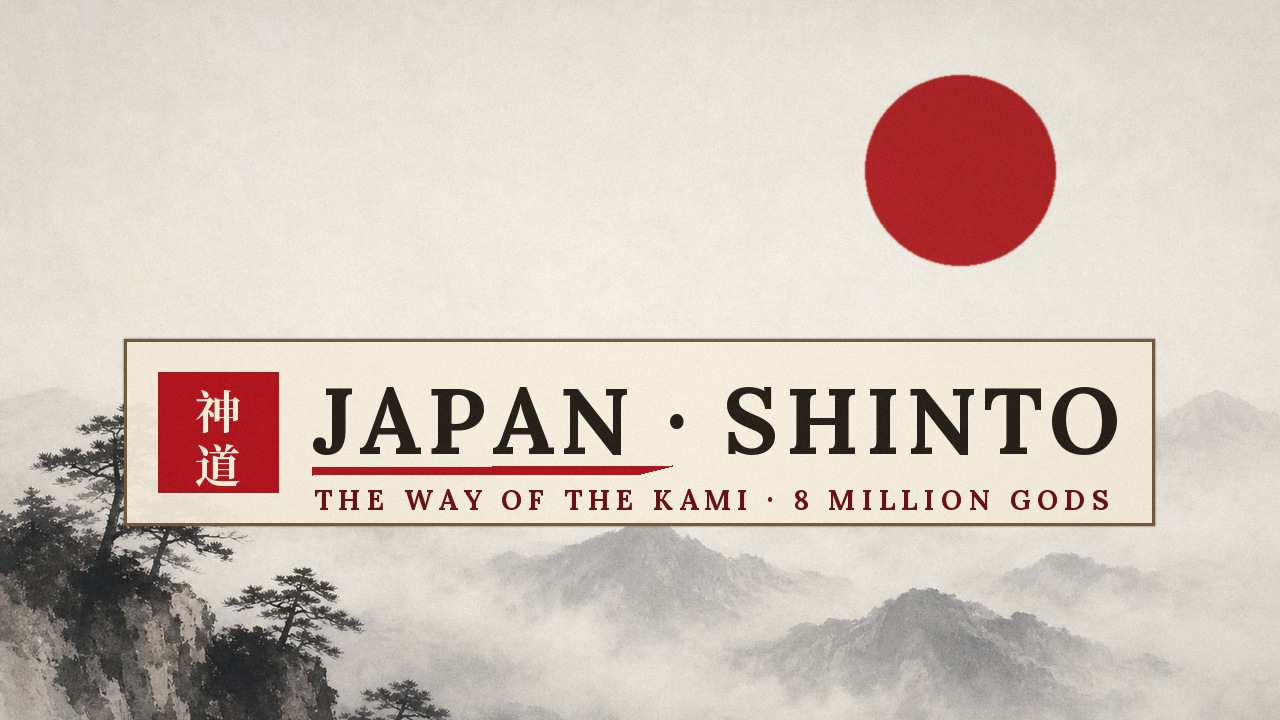
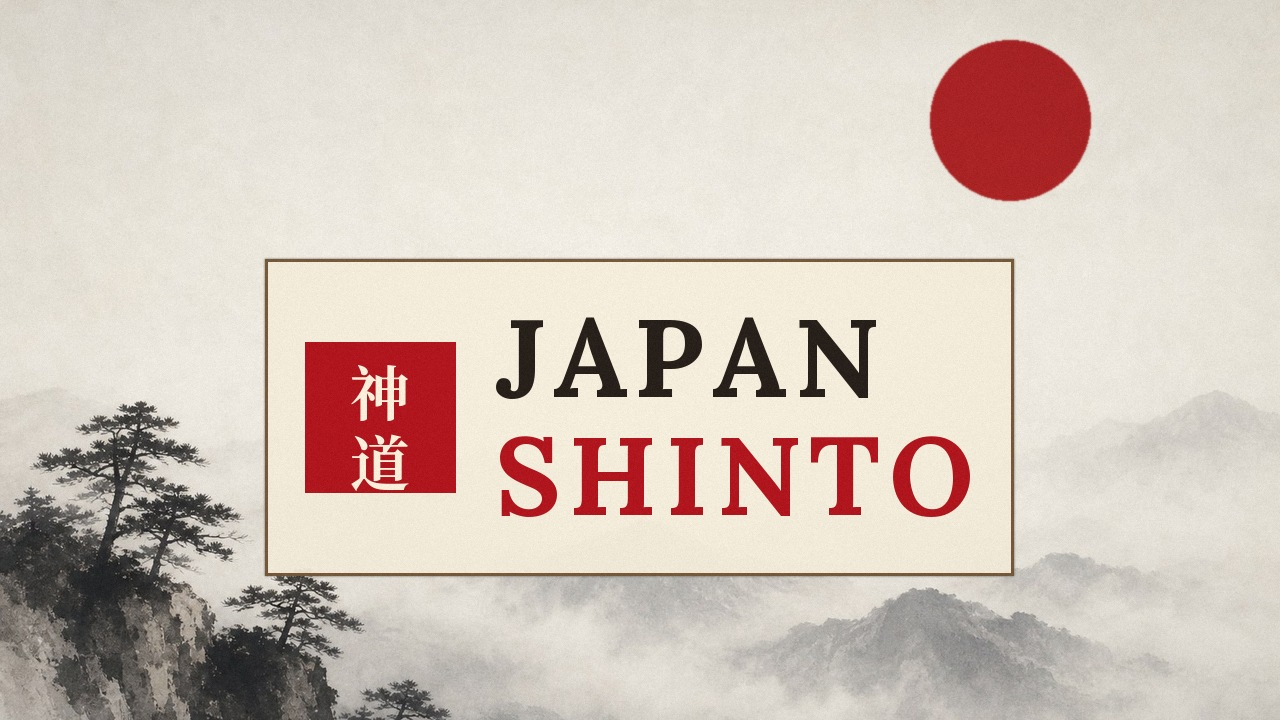
Ảnh bìa video: tiêu đề hai dòng (nước / chủ đề), bỏ dòng phụ
Claude-Session: https://claude.ai/code/session_011CHVvY2RSwUp2YFgPmmMwF

Changed region(s): [[0.0938, 0.4278, 0.9062, 0.825], [0.2188, 0.0306, 0.875, 0.3667], [0.7812, 0.7639, 0.8125, 0.7944]]

diff --git a/assets/channel/make_thumb.py b/assets/channel/make_thumb.py
@@ -24,24 +24,30 @@ fs = ImageFont.truetype(f'{A.F}/NotoSerifSC700.ttf', 64 if len(A.seal) == 1 else
 def wsp(t, f, sp): return sum(d.textlength(c, font=f) for c in t) + sp * (len(t) - 1)
 def dsp(x, y, t, f, sp, fill):
     for c in t: d.text((x, y), c, font=f, fill=fill); x += d.textlength(c, font=f) + sp
-seal = 120; pad = 34; gap = 34
-for size in range(92, 40, -2):   # tự co chữ cho dải giấy vừa khung (chừa 50 px mỗi bên)
+seal = 150; pad = 40; gap = 40
+lines = A.title.split('|'); sub = A.sub.strip()
+for size in range(110, 40, -2):   # tự co chữ cho dải giấy vừa khung (chừa 50 px mỗi bên)
     ft = ImageFont.truetype(f'{A.F}/{A.font}', size)
-    if pad + seal + gap + max(wsp(A.title, ft, 6), wsp(A.sub, fsub, 6)) + pad <= W - 100: break
-tw = max(wsp(A.title, ft, 6), wsp(A.sub, fsub, 6)); sw = pad + seal + gap + tw + pad; sh = 186
-x0 = int((W - sw) / 2); y0 = int(H * 0.60 - sh / 2); x1, y1 = x0 + int(sw), y0 + sh
+    tw = max([wsp(l, ft, 8) for l in lines] + ([wsp(sub, fsub, 6)] if sub else []))
+    if pad + seal + gap + tw + pad <= W - 100: break
+lh = int(size * 1.08); th = lh * len(lines) + (50 if sub else 0)
+sh = max(seal + 2 * pad, th + 2 * pad); sw = pad + seal + gap + tw + pad
+x0 = int((W - sw) / 2); y0 = int(H * 0.58 - sh / 2); x1, y1 = x0 + int(sw), y0 + sh
 strip = Image.new('RGBA', (W, H), (0, 0, 0, 0)); ImageDraw.Draw(strip).rectangle((x0, y0, x1, y1), fill=(246, 238, 220, 242))
 img = Image.alpha_composite(img, strip.filter(ImageFilter.GaussianBlur(1))); d = ImageDraw.Draw(img)
 d.rectangle((x0, y0, x1, y1), outline=(120, 90, 60, 255), width=3)
 sx, sy = x0 + pad, y0 + (sh - seal) // 2; d.rectangle((sx, sy, sx + seal, sy + seal), fill=(178, 22, 30, 255))
+fs = ImageFont.truetype(f'{A.F}/NotoSerifSC700.ttf', 84 if len(A.seal) == 1 else 60)
 if len(A.seal) == 1:
-    w = d.textlength(A.seal, font=fs); d.text((sx + (seal - w) / 2, sy + 18), A.seal, font=fs, fill=(251, 241, 220, 255))
+    w = d.textlength(A.seal, font=fs); d.text((sx + (seal - w) / 2, sy + 22), A.seal, font=fs, fill=(251, 241, 220, 255))
 else:
     for i, c in enumerate(A.seal[:2]):
-        w = d.textlength(c, font=fs); d.text((sx + (seal - w) / 2, sy + 4 + i * 54), c, font=fs, fill=(251, 241, 220, 255))
-tx = sx + seal + gap; dsp(tx, y0 + 22 + (92 - size) // 2, A.title, ft, 6, (40, 32, 26, 255))
-for k in range(9): d.line((tx, y0 + 128 + k * .9, tx + min(tw, 360) - k * 4, y0 + 126 + k), fill=(176, 22, 30, 210), width=2)
-dsp(tx + 2, y0 + 142, A.sub, fsub, 6, (107, 18, 22, 255))
+        w = d.textlength(c, font=fs); d.text((sx + (seal - w) / 2, sy + 4 + i * 70), c, font=fs, fill=(251, 241, 220, 255))
+tx = sx + seal + gap; ty = y0 + (sh - th) // 2 - int(size * 0.12)
+for i, l in enumerate(lines):
+    dsp(tx, ty + i * lh, l, ft, 8, (178, 22, 30, 255) if i == len(lines) - 1 and len(lines) > 1 else (40, 32, 26, 255))
+if sub:
+    dsp(tx + 2, ty + lh * len(lines) + 8, sub, fsub, 6, (107, 18, 22, 255))
 img = img.convert('RGB'); arr = np.asarray(img).astype(np.float32); yy, xx = np.mgrid[0:H, 0:W]
 v = np.clip(1 - 0.25 * (((xx - W / 2) / (W * .6)) ** 2 + ((yy - H / 2) / (H * .6)) ** 2), 0, 1)[..., None]
 arr = arr * (0.8 + 0.2 * v) + np.random.default_rng(1).normal(0, 2.5, arr.shape[:2] + (1,))
